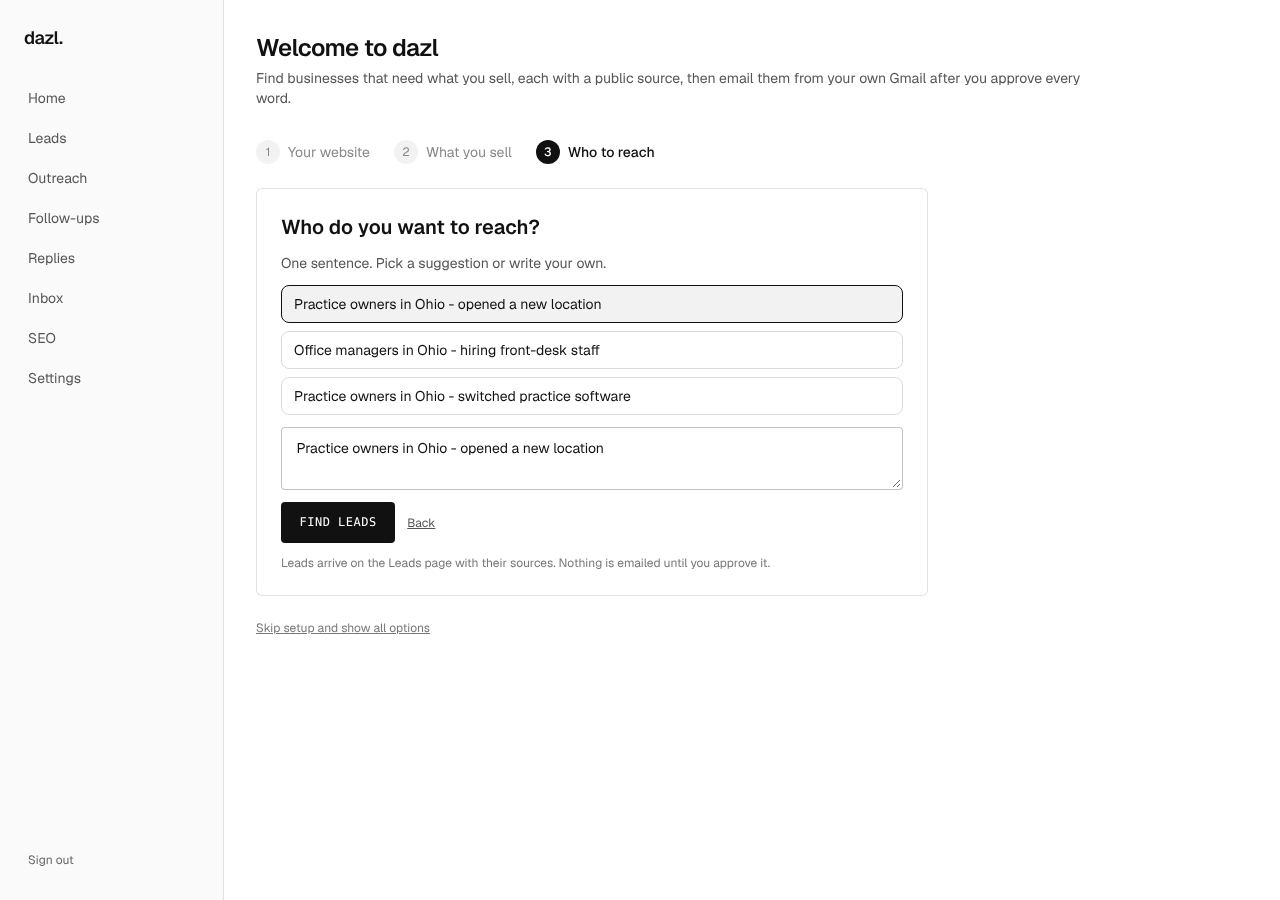
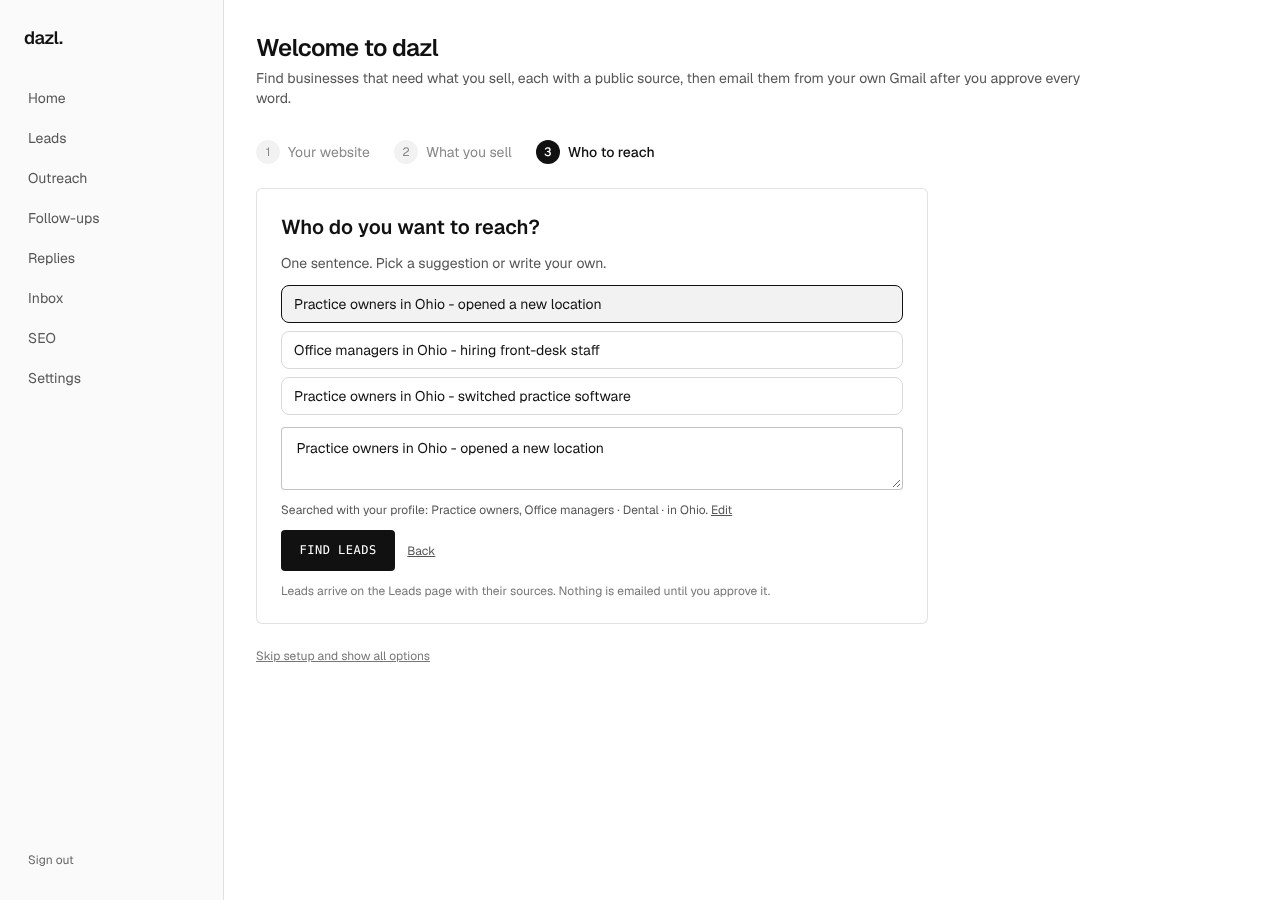
Onboarding: Find leads sends the sentence on screen and the edited profile
Instinct's review of 8e02bca:
1. Back -> Ohio changed to NYC -> continue showed NYC suggestions but kept and
   submitted the old Ohio sentence. A suggested sentence is now replaced
   whenever the profile changes; a sentence the user typed is kept as typed.
   The submitted sentence is always the one in the box.
2. The edited profile did not reach the search. POST /api/scan now carries
   { query, icp } with the step-2 profile exactly as shown (who buys, roles,
   industries, sizes, where, signals, skip), the same reviewed-profile path the
   Leads page uses; the server validates it as before. Company sizes and Skip
   are now visible fields, so no hidden site-read constraint is sent. A line
   under the sentence shows the profile being searched, with Edit.

test/ui/onboarding.ui.mjs: Back -> Where=NYC -> Find leads sends exactly one
request with the NYC sentence and where=['NYC'] (fails on 8e02bca); every
edited field reaches the request and a typed sentence survives Back. Server
under the net fence; missing build/browser is NOT RUN (exit 2).

Claude-Session: https://claude.ai/code/session_01CafonXdzjwkFYiMRJWtsKo

Changed region(s): [[0.1875, 0.56, 0.5938, 0.7467]]

diff --git a/web/app/app/first-run.tsx b/web/app/app/first-run.tsx
@@ -31,8 +31,13 @@ export default function FirstRun({ children }: { children: React.ReactNode }) {
   const [industries, setIndustries] = useState('')
   const [where, setWhere] = useState('')
   const [signals, setSignals] = useState('')
+  const [sizes, setSizes] = useState('')
+  const [exclude, setExclude] = useState('')
   const [readFrom, setReadFrom] = useState('')
   const [ask, setAsk] = useState('')
+  // True while the sentence is a suggestion (picked or prefilled), false once the user types their own. A suggestion is
+  // replaced when the profile changes, so the box never keeps a sentence built from an older profile.
+  const [askIsSuggestion, setAskIsSuggestion] = useState(true)
   const [busy, setBusy] = useState(false)
   const [error, setError] = useState('')
   const [needKey, setNeedKey] = useState(false)
@@ -52,6 +57,8 @@ export default function FirstRun({ children }: { children: React.ReactNode }) {
 
   const brain: Brain = { summary: summary || sells, who: list(who), industries: list(industries), where: list(where), signals: list(signals) }
   const plays = useMemo(() => suggestPlays(brain), [summary, sells, who, industries, where, signals]) // eslint-disable-line react-hooks/exhaustive-deps
+  // The reviewed profile exactly as shown in step 2; it goes to the search with the sentence (no hidden fields).
+  const profile = { summary: (summary || sells).trim(), who: list(who), industries: list(industries), sizes: list(sizes), where: list(where), signals: list(signals), exclude: list(exclude) }
 
   if (ready === 'loading') return null
   if (ready === 'home') return <>{children}</>
@@ -71,9 +78,10 @@ export default function FirstRun({ children }: { children: React.ReactNode }) {
         if (j.error === 'no_api_key') { setNeedKey(true); return }
         return setError(knownErrorCopy(j.error) ?? SITE_ERR[j.error] ?? (r.status === 429 ? 'Too many website reads. Try again later, or fill in the profile yourself.' : 'Could not read that site. Fill in the profile yourself instead.'))
       }
-      const icp = j.icp as Brain
       if (j.sells) setSells(String(j.sells))
-      setSummary(icp.summary ?? ''); setWho((icp.who ?? []).join(', ')); setIndustries((icp.industries ?? []).join(', ')); setWhere((icp.where ?? []).join(', ')); setSignals((icp.signals ?? []).join(', '))
+      const site = j.icp as Brain & { sizes?: string[]; exclude?: string[] }
+      setSummary(site.summary ?? ''); setWho((site.who ?? []).join(', ')); setIndustries((site.industries ?? []).join(', ')); setWhere((site.where ?? []).join(', ')); setSignals((site.signals ?? []).join(', '))
+      setSizes((site.sizes ?? []).join(', ')); setExclude((site.exclude ?? []).join(', '))
       try { setReadFrom(new URL(j.source).hostname) } catch { setReadFrom('your website') }
       setWebsite(url); setStep('brain')
     } catch { setError('Could not reach the server. Check your connection and try again.') } finally { setBusy(false) }
@@ -85,16 +93,17 @@ export default function FirstRun({ children }: { children: React.ReactNode }) {
       const r = await fetch('/api/settings/profile', { method: 'POST', headers: { 'content-type': 'application/json' }, body: JSON.stringify({ sells, website: normalizeWebsite(website), business_name: bizName }) })
       const j = await r.json().catch(() => ({}))
       if (!r.ok) return setError(j.error || 'Could not save')
-      setAsk(a => a || plays[0] || ''); setStep('ask')
+      if (askIsSuggestion || !ask.trim()) { setAsk(plays[0] || ''); setAskIsSuggestion(true) }
+      setStep('ask')
     } catch { setError('Could not reach the server. Try again.') } finally { setBusy(false) }
   }
 
   async function run(e: React.FormEvent) {
     e.preventDefault(); setError(''); setBusy(true)
     try {
-      // The sentence alone goes to the scan; the server builds the profile from it and the saved "what you sell",
-      // exactly as on Leads. Nothing here changes what a scan checks.
-      const r = await fetch('/api/scan', { method: 'POST', headers: { 'content-type': 'application/json' }, body: JSON.stringify({ query: ask.trim() }) })
+      // The sentence on screen and the profile from step 2, as the Leads page sends a reviewed profile. The server
+      // validates both; nothing here changes what a scan checks.
+      const r = await fetch('/api/scan', { method: 'POST', headers: { 'content-type': 'application/json' }, body: JSON.stringify({ query: ask.trim(), icp: profile }) })
       const j = await r.json().catch(() => ({}))
       if (r.ok && j.job_id) { router.push(`/app/leads?job_id=${encodeURIComponent(j.job_id)}`); return }
       if (j.error === 'no_api_key' || j.error === 'trial_exhausted') { setNeedKey(true); return setError(j.error === 'trial_exhausted' ? 'Your free scans are used up. Add your AI key to keep going.' : '') }
@@ -131,6 +140,10 @@ export default function FirstRun({ children }: { children: React.ReactNode }) {
           <label className="flex flex-col gap-1">Where<input className="field" value={where} onChange={e => setWhere(e.target.value)} placeholder="Ohio" /></label>
         </div>
         <label className="flex flex-col gap-1">Signs they need you now <span className="text-xs text-[#777]">comma separated public events</span><input className="field" value={signals} onChange={e => setSignals(e.target.value)} placeholder="Opened a new location, hiring front-desk staff" /></label>
+        <div className="grid sm:grid-cols-2 gap-3">
+          <label className="flex flex-col gap-1">Company sizes <span className="text-xs text-[#777]">optional</span><input className="field" value={sizes} onChange={e => setSizes(e.target.value)} placeholder="2-50 employees" /></label>
+          <label className="flex flex-col gap-1">Skip <span className="text-xs text-[#777]">optional</span><input className="field" value={exclude} onChange={e => setExclude(e.target.value)} placeholder="Dental schools, chains" /></label>
+        </div>
         <div className="flex gap-3 items-center mt-1">
           <button className="btn-primary" disabled={busy || sells.trim().length < 3}>{busy ? 'Saving...' : 'Looks right, continue'}</button>
           <button type="button" className="text-xs underline text-[#555]" onClick={() => setStep('site')}>Back</button>
@@ -141,9 +154,10 @@ export default function FirstRun({ children }: { children: React.ReactNode }) {
         <h2 className="text-xl font-semibold">Who do you want to reach?</h2>
         <p className="text-[#555]">One sentence. Pick a suggestion or write your own.</p>
         <div className="flex flex-col gap-2" role="group" aria-label="Suggested plays">
-          {plays.map(p => <button type="button" key={p} onClick={() => setAsk(p)} className={`text-left border rounded-lg px-3 py-2 ${ask === p ? 'border-[#111] bg-black/5' : 'border-black/15 hover:border-black/40'}`}>{p}</button>)}
+          {plays.map(p => <button type="button" key={p} aria-pressed={ask === p} onClick={() => { setAsk(p); setAskIsSuggestion(true) }} className={`text-left border rounded-lg px-3 py-2 ${ask === p ? 'border-[#111] bg-black/5' : 'border-black/15 hover:border-black/40'}`}>{p}</button>)}
         </div>
-        <textarea className="field" rows={2} required minLength={3} maxLength={600} aria-label="Who do you want to reach" value={ask} onChange={e => setAsk(e.target.value)} />
+        <textarea className="field" rows={2} required minLength={3} maxLength={600} aria-label="Who do you want to reach" value={ask} onChange={e => { setAsk(e.target.value); setAskIsSuggestion(false) }} />
+        <p className="text-xs text-[#555]" aria-label="Search profile">Searched with your profile: {[profile.who.join(', '), profile.industries.join(', '), profile.where.length ? `in ${profile.where.join(', ')}` : 'any location', profile.sizes.join(', '), profile.exclude.length ? `skipping ${profile.exclude.join(', ')}` : ''].filter(Boolean).join(' · ')}. <button type="button" className="underline" onClick={() => setStep('brain')}>Edit</button></p>
         {needKey && !hasKey ? <KeyInline reason="Searches run on your own Anthropic or OpenAI key." onSaved={() => { setNeedKey(false); setError(''); void loadUsage() }} />
           : !hasKey && trialLeft > 0 ? <p className="text-xs text-[#555]">Your first {trialLeft} search{trialLeft === 1 ? '' : 'es'} are on us. No AI key needed yet.</p> : null}
         <div className="flex gap-3 items-center">
